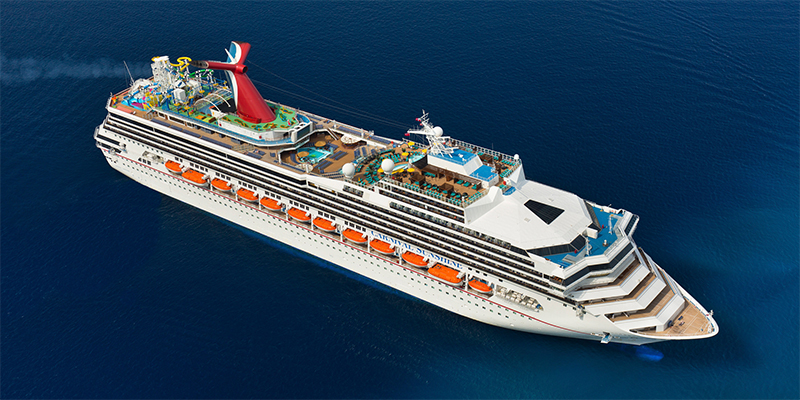
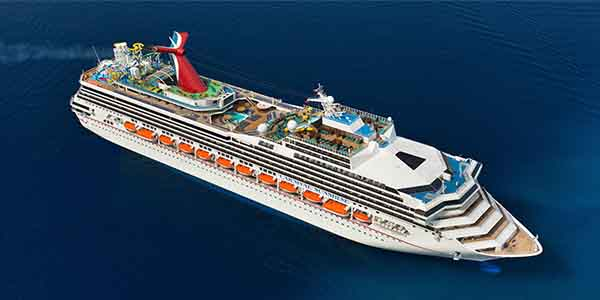
imagenes barcos optimizadas

Changed region(s): [[0.09, 0.09, 0.93, 0.93]]

diff --git a/titulo.html b/titulo.html
@@ -51,7 +51,7 @@
 			<h2 class=" [ text-uppercase text-center ] [ color-secondary ] ">Título</h2>
 			<div class="[ user-content ]">
 				<p> We don't have proof, but evidence suggests that the Caribbean was made for cruising. And with more than 5,000 islands and cays, there’s a lot of paradise to see! So how do you choose where to go on your next cruise? See for yourself — best of all, the mild climate means it doesn't even matter what time of year you go. A Carnival cruise takes you to some of the greatest hotspots stretching across the world's designated hotspot.</p>
-				<img src="img/barcos.jpg">
+				<img src="img/folletos3.jpg">
 				<p>We don't have proof, but evidence suggests that the Caribbean was made for cruising. And with more than 5,000 islands and cays, there’s a lot of paradise to see! So how do you choose where to go on your next cruise? See for <a>yourself</a>  — best of all, the mild climate means it doesn't even matter what time of year you go. A Carnival cruise takes you to some of the greatest hotspots stretching across the world's designated hotspot.</p>
 			</div>
 		</div>
